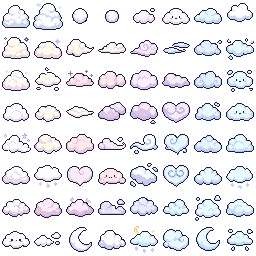
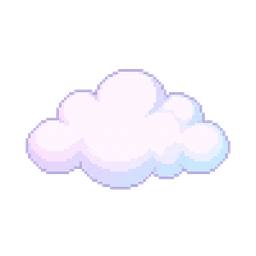
feat(scenic): integrate new high-res pixel art cloud, hills, distant mountains, and milestone post

diff --git a/src/components/ScenicJourneyModal.tsx b/src/components/ScenicJourneyModal.tsx
@@ -570,18 +570,18 @@ export const ScenicJourneyModal: React.FC<ScenicJourneyModalProps> = ({
       };
 
       for (let i = 0; i < 4; i++) {
-        const cloudX = ((i * 320 - farScroll * 1.5) % (width + 240) + width + 240) % (width + 240) - 100;
-        const cloudY = height * (0.08 + (i % 2) * 0.1);
-        const cloudScale = 0.8 + (i % 3) * 0.25;
+        const cloudX = ((i * 340 - farScroll * 1.5) % (width + 300) + width + 300) % (width + 300) - 150;
+        const cloudY = height * (0.07 + (i % 2) * 0.1);
+        const cloudScale = 0.85 + (i % 3) * 0.25;
 
         if (assets.bgCloud) {
-          const cw = 76 * cloudScale;
-          const ch = 52 * cloudScale;
+          const cw = 110 * cloudScale;
+          const ch = 110 * cloudScale;
           ctx.save();
           if (theme === 'night') ctx.globalAlpha = 0.45;
           else if (theme === 'sunset') ctx.globalAlpha = 0.85;
-          // In 8x8 grid (32x32 each cell): cell (0, 0) and (1, 0) are single complete fluffy pixel clouds!
-          drawSprite(assets.bgCloud, 8, 8, i % 2, 0, cloudX, cloudY, cw, ch);
+          // Single isolated fluffy cloud asset (256x256)
+          ctx.drawImage(assets.bgCloud, cloudX, cloudY, cw, ch);
           ctx.restore();
         } else {
           drawCloud(cloudX, cloudY, cloudScale);
@@ -593,47 +593,43 @@ export const ScenicJourneyModal: React.FC<ScenicJourneyModalProps> = ({
       // ------------------------------------------
       const mountainY = height * 0.58;
 
-      // Far Mountain Silhouette (Layer 1 - deep atmospheric haze)
-      const farMountainColor = theme === 'night' 
+      // Atmospheric distant mountain base fill
+      const farMountainBaseColor = theme === 'night' 
         ? '#162232' 
         : theme === 'sunset' 
         ? '#6E3E40' 
         : theme === 'sakura' 
-        ? '#CCD7E4' // Soft pastel lilac
+        ? '#C2C8DE' // Soft pastel lilac base
         : '#B4C9BC'; // Sage haze
-      
-      ctx.fillStyle = farMountainColor;
-      ctx.beginPath();
-      ctx.moveTo(-50, height);
-      for (let x = -50; x <= width + 100; x += 30) {
-        const peak = Math.sin((x + farScroll * 0.4) * 0.003) * 65 
-                   + Math.cos((x + farScroll * 0.4) * 0.007) * 35;
-        ctx.lineTo(x, mountainY - 20 - peak);
-      }
-      ctx.lineTo(width + 100, height);
-      ctx.closePath();
-      ctx.fill();
+      ctx.fillStyle = farMountainBaseColor;
+      ctx.fillRect(-50, mountainY, width + 100, height - mountainY);
 
-      // Mid Mountain Ridge (Layer 2 - closer silhouette)
-      const midMountainColor = theme === 'night' 
-        ? '#1C2C3E' 
-        : theme === 'sunset' 
-        ? '#844D4D' 
-        : theme === 'sakura' 
-        ? '#BAC9D8' // Soft lavender
-        : '#9EB8A8';
-
-      ctx.fillStyle = midMountainColor;
-      ctx.beginPath();
-      ctx.moveTo(-50, height);
-      for (let x = -50; x <= width + 100; x += 25) {
-        const peak = Math.sin((x + farScroll * 0.75 + 150) * 0.0045) * 55 
-                   + Math.sin((x + farScroll * 0.75) * 0.011) * 22;
-        ctx.lineTo(x, mountainY + 15 - peak);
+      if (assets.bgMountains) {
+        // Seamless Distant Mountains Layer (1536x384 strip)
+        const mDrawW = 1000;
+        const mDrawH = 250;
+        const startX = -((farScroll * 0.6) % mDrawW);
+        ctx.save();
+        if (theme === 'night') ctx.globalAlpha = 0.65;
+        else if (theme === 'sunset') ctx.globalAlpha = 0.88;
+        for (let mx = startX - mDrawW; mx < width + mDrawW; mx += mDrawW) {
+          ctx.drawImage(assets.bgMountains, mx, mountainY - 145, mDrawW, mDrawH);
+        }
+        ctx.restore();
+      } else {
+        // Procedural mountain fallback
+        ctx.fillStyle = farMountainBaseColor;
+        ctx.beginPath();
+        ctx.moveTo(-50, height);
+        for (let x = -50; x <= width + 100; x += 30) {
+          const peak = Math.sin((x + farScroll * 0.4) * 0.003) * 65 
+                     + Math.cos((x + farScroll * 0.4) * 0.007) * 35;
+          ctx.lineTo(x, mountainY - 20 - peak);
+        }
+        ctx.lineTo(width + 100, height);
+        ctx.closePath();
+        ctx.fill();
       }
-      ctx.lineTo(width + 100, height);
-      ctx.closePath();
-      ctx.fill();
 
       // Sacred Mount Fuji (Iconic Majestic Snow Peak in Sakura / Sunset / Night)
       if (theme === 'sakura' || theme === 'sunset' || theme === 'night') {
@@ -703,63 +699,42 @@ export const ScenicJourneyModal: React.FC<ScenicJourneyModalProps> = ({
       // ------------------------------------------
       const midHillY = height * 0.67;
 
-      // Back Hill Layer (gentle olive-sage rolling hills)
-      const backHillColor = theme === 'night'
+      // Solid meadow base fill down to road
+      const meadowBaseColor = theme === 'night'
         ? '#172720'
         : theme === 'sunset'
         ? '#6B4031'
         : theme === 'sakura'
-        ? '#7FA37C' // Soft tea green
-        : '#6B8E67';
+        ? '#648858' // Soft tea-green pasture
+        : '#5D7E54';
+      ctx.fillStyle = meadowBaseColor;
+      ctx.fillRect(-50, midHillY, width + 100, height - midHillY);
 
-      ctx.fillStyle = backHillColor;
-      ctx.beginPath();
-      ctx.moveTo(-50, height);
-      for (let x = -50; x <= width + 100; x += 30) {
-        const hWave = Math.sin((x + midScroll * 0.65) * 0.005) * 32 
-                    + Math.cos((x + midScroll * 0.65) * 0.012) * 14;
-        ctx.lineTo(x, midHillY - 18 + hWave);
-      }
-      ctx.lineTo(width + 100, height);
-      ctx.closePath();
-      ctx.fill();
-
-      // Front Meadow Layer (lush warm matcha grass leading down to road)
-      const frontMeadowColor = theme === 'night'
-        ? '#1E3229'
-        : theme === 'sunset'
-        ? '#7E4935'
-        : theme === 'sakura'
-        ? '#6B9068' // Lush matcha pasture
-        : '#597B55';
-
-      ctx.fillStyle = frontMeadowColor;
-      ctx.beginPath();
-      ctx.moveTo(-50, height);
-      for (let x = -50; x <= width + 100; x += 25) {
-        const hWave = Math.sin((x + midScroll * 1.0 + 80) * 0.0065) * 22 
-                    + Math.sin((x + midScroll * 1.0) * 0.015) * 8;
-        ctx.lineTo(x, midHillY + 12 + hWave);
-      }
-      ctx.lineTo(width + 100, height);
-      ctx.closePath();
-      ctx.fill();
-
-      // Little Pixel Grass Tufts & Wildflowers on the Meadow Crest
-      ctx.fillStyle = theme === 'night' ? '#2A4538' : '#A4C69E';
-      for (let i = 0; i < 18; i++) {
-        const gx = ((i * 110 - midScroll * 1.0) % (width + 200) + width + 200) % (width + 200) - 50;
-        const gy = midHillY + 12 + Math.sin((gx + midScroll * 1.0 + 80) * 0.0065) * 22;
-        // Grass tuft (3 small vertical pixel blades)
-        ctx.fillRect(gx, gy - 4, 2, 4);
-        ctx.fillRect(gx - 2, gy - 3, 2, 3);
-        ctx.fillRect(gx + 2, gy - 2, 2, 2);
-        // Occasional tiny wildflower dot (white or buttercup yellow)
-        if (i % 3 === 0) {
-          ctx.fillStyle = i % 2 === 0 ? '#FFFFFF' : '#FDE047';
-          ctx.fillRect(gx - 3, gy - 5, 2, 2);
-          ctx.fillStyle = theme === 'night' ? '#2A4538' : '#A4C69E';
+      if (assets.bgHills) {
+        // Seamless Rolling Green Hills Layer (1536x384 strip)
+        const hDrawW = 960;
+        const hDrawH = 240;
+        const startHX = -((midScroll * 1.0) % hDrawW);
+        ctx.save();
+        if (theme === 'night') ctx.globalAlpha = 0.7;
+        else if (theme === 'sunset') ctx.globalAlpha = 0.9;
+        for (let hx = startHX - hDrawW; hx < width + hDrawW; hx += hDrawW) {
+          ctx.drawImage(assets.bgHills, hx, midHillY - 108, hDrawW, hDrawH);
         }
+        ctx.restore();
+      } else {
+        // Procedural hills fallback
+        ctx.fillStyle = meadowBaseColor;
+        ctx.beginPath();
+        ctx.moveTo(-50, height);
+        for (let x = -50; x <= width + 100; x += 30) {
+          const hWave = Math.sin((x + midScroll * 0.65) * 0.005) * 32 
+                      + Math.cos((x + midScroll * 0.65) * 0.012) * 14;
+          ctx.lineTo(x, midHillY - 18 + hWave);
+        }
+        ctx.lineTo(width + 100, height);
+        ctx.closePath();
+        ctx.fill();
       }
 
       // Windmill or Cozy House in Countryside
@@ -898,24 +873,42 @@ export const ScenicJourneyModal: React.FC<ScenicJourneyModalProps> = ({
           const t = (markerX - (-20)) / (width + 40);
           const markerY = roadLeftY + (roadRightY - roadLeftY) * t;
 
-          // Cute wooden milestone signpost with carved banner
-          ctx.fillStyle = '#8D6E63';
-          ctx.fillRect(markerX - 3, markerY - 36, 6, 36);
-          ctx.fillStyle = '#FFF8E1';
-          ctx.strokeStyle = '#5D4037';
-          ctx.lineWidth = 1.5;
-          ctx.beginPath();
-          ctx.roundRect(markerX - 22, markerY - 48, 44, 18, 4);
-          ctx.fill();
-          ctx.stroke();
+          if (assets.propMilestone) {
+            // High-res pixel art wooden milestone signpost (256x256, base at Y=226)
+            const postW = 56;
+            const postH = 56;
+            const postX = markerX - postW / 2;
+            const postY = markerY - postH * (226 / 256);
+            ctx.drawImage(assets.propMilestone, postX, postY, postW, postH);
 
-          // Distance Badge Pill
-          ctx.fillStyle = '#3E2723';
-          ctx.font = 'bold 10px ui-monospace, monospace';
-          ctx.textAlign = 'center';
-          ctx.textBaseline = 'middle';
-          const distLabel = markerDist >= 1000 ? `${(markerDist / 1000).toFixed(1)}k` : `${markerDist}m`;
-          ctx.fillText(`🚩 ${distLabel}`, markerX, markerY - 39);
+            // Carved text on wooden board (placard center is around Y=115 in 256x256 space)
+            const placardCenterY = postY + postH * (110 / 256);
+            ctx.fillStyle = '#4E2C17';
+            ctx.font = 'bold 9px ui-monospace, monospace';
+            ctx.textAlign = 'center';
+            ctx.textBaseline = 'middle';
+            const distLabel = markerDist >= 1000 ? `${(markerDist / 1000).toFixed(1)}k` : `${markerDist}m`;
+            ctx.fillText(distLabel, markerX + 1, placardCenterY);
+          } else {
+            // Cute wooden milestone signpost fallback
+            ctx.fillStyle = '#8D6E63';
+            ctx.fillRect(markerX - 3, markerY - 36, 6, 36);
+            ctx.fillStyle = '#FFF8E1';
+            ctx.strokeStyle = '#5D4037';
+            ctx.lineWidth = 1.5;
+            ctx.beginPath();
+            ctx.roundRect(markerX - 22, markerY - 48, 44, 18, 4);
+            ctx.fill();
+            ctx.stroke();
+
+            // Distance Badge Pill
+            ctx.fillStyle = '#3E2723';
+            ctx.font = 'bold 10px ui-monospace, monospace';
+            ctx.textAlign = 'center';
+            ctx.textBaseline = 'middle';
+            const distLabel = markerDist >= 1000 ? `${(markerDist / 1000).toFixed(1)}k` : `${markerDist}m`;
+            ctx.fillText(`🚩 ${distLabel}`, markerX, markerY - 39);
+          }
         }
       }
 
